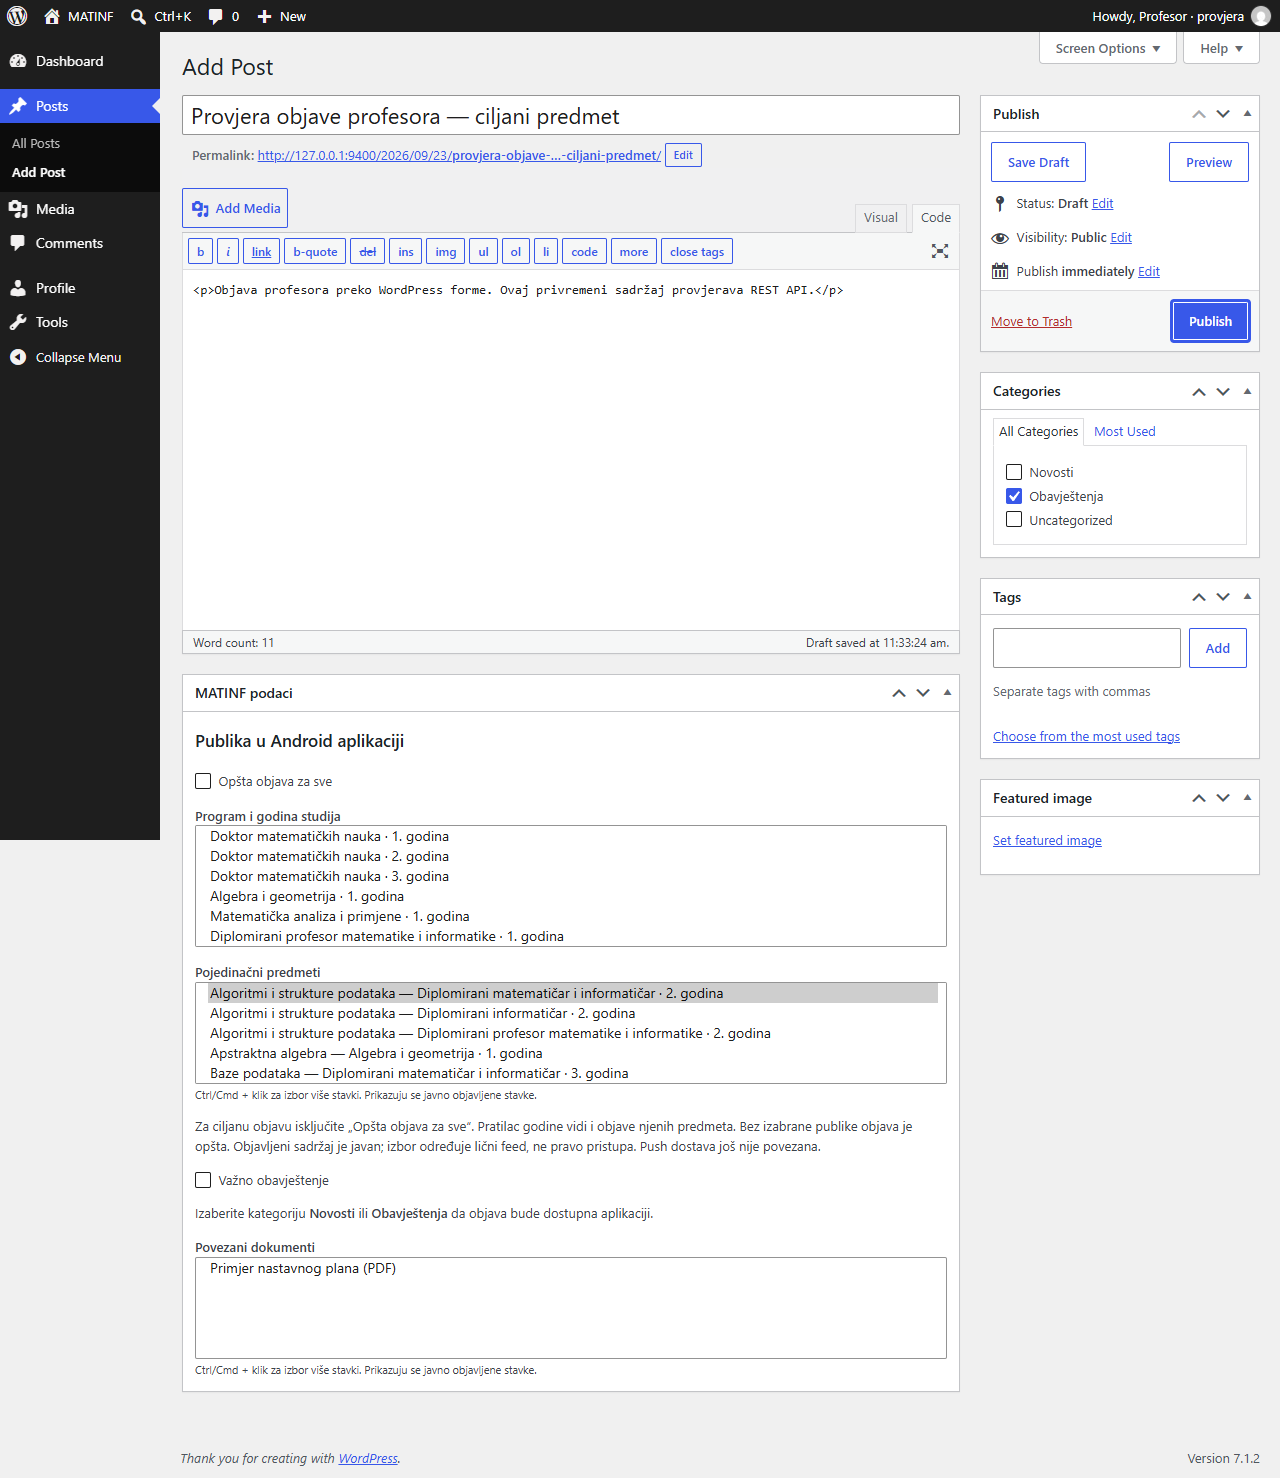
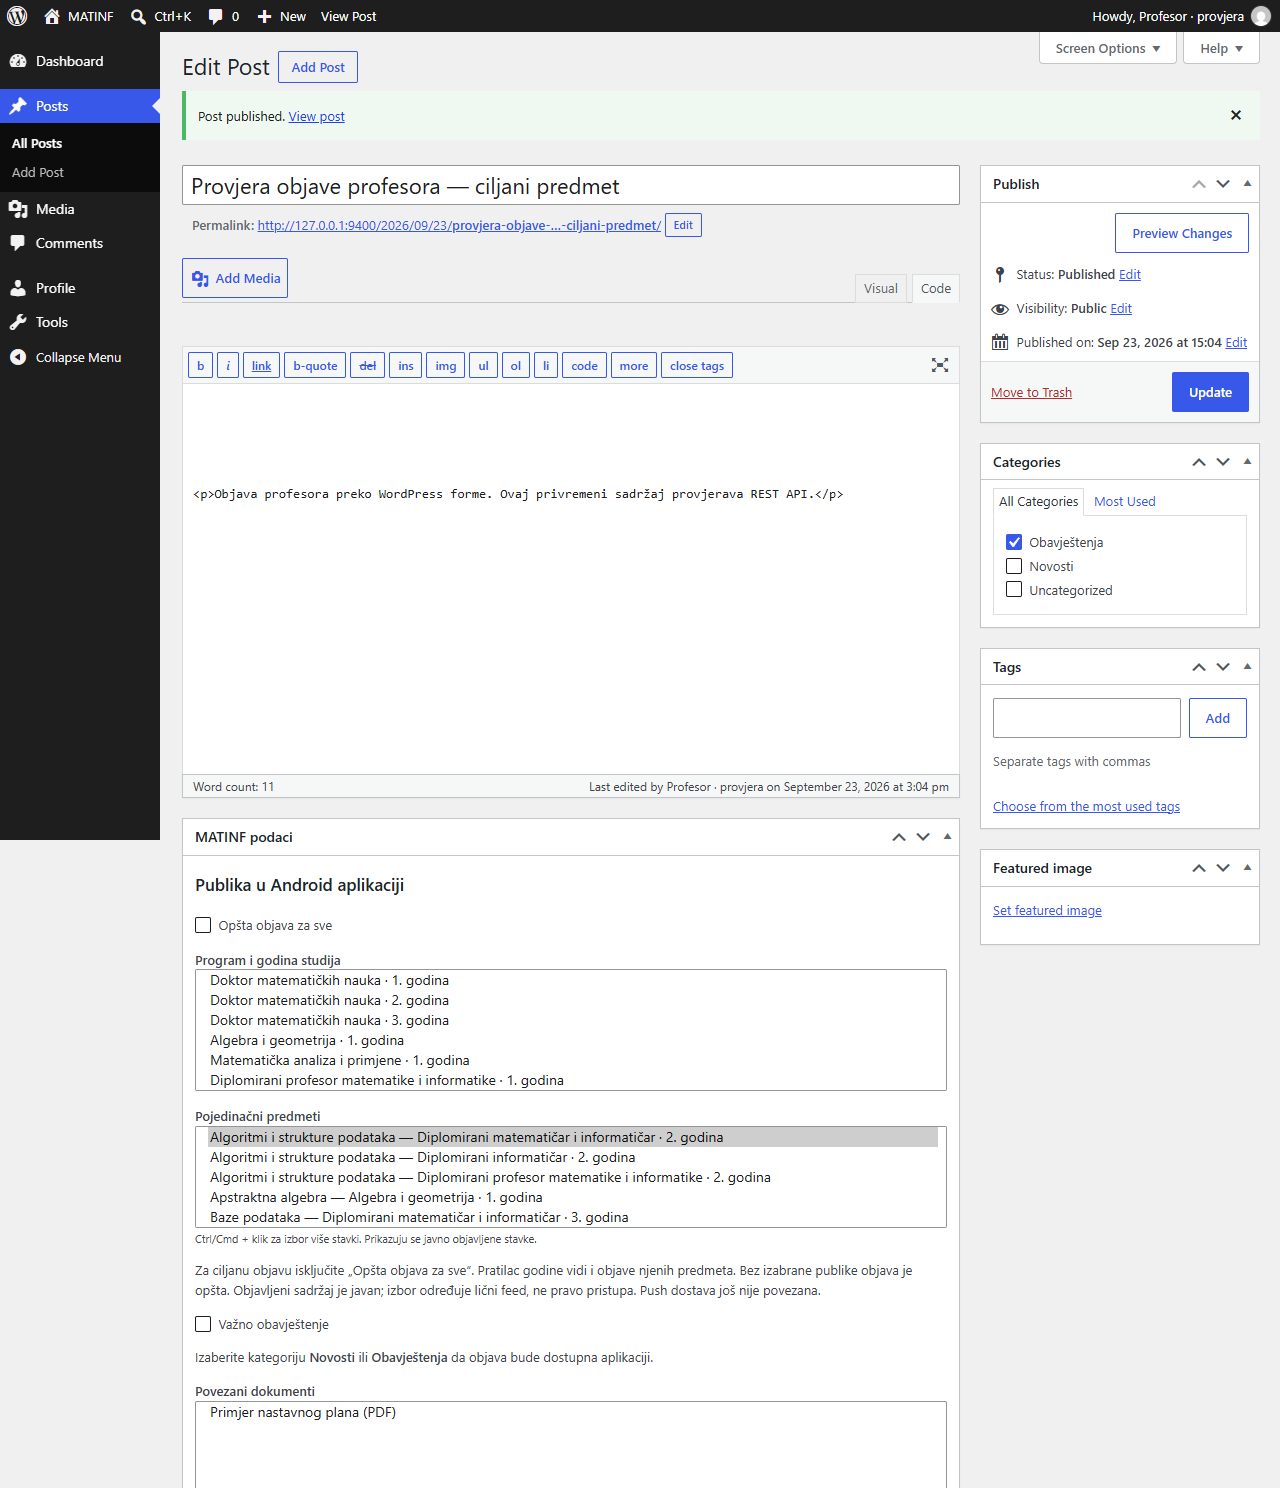
Add automated Android UI testing script for reader app functionality

diff --git a/src/components/matinf-app.tsx b/src/components/matinf-app.tsx
@@ -87,6 +87,19 @@ export function MatinfApp() {
     }).catch(() => undefined).finally(() => setReady(true));
     void refreshCatalog();
   }, [refreshCatalog]);
+  useEffect(() => {
+    if (!preferences || catalogLoading || catalogError || !catalog.programs.length) return;
+    const programYears = preferences.programYears.filter(value => {
+      const [id, year] = value.split(':').map(Number);
+      return catalog.programs.some(item => item.id === id && year >= 1 && year <= (item.meta.durationYears || 0));
+    });
+    const courseIds = preferences.courseIds.filter(id => catalog.courses.some(item => String(item.id) === id));
+    if (programYears.length !== preferences.programYears.length || courseIds.length !== preferences.courseIds.length) {
+      const next = { ...preferences, programYears, courseIds };
+      setPreferences(next);
+      void AsyncStorage.setItem('@matinf/onboarding/v1', JSON.stringify(next)).catch(() => undefined);
+    }
+  }, [catalog, catalogLoading, catalogError, preferences]);
   const goBack = useCallback(() => { setStack(value => value.slice(0, -1)); }, []);
   useEffect(() => {
     if (setup || !preferences) return;

diff --git a/wordpress/plugins/matinf-core/includes/admin.php b/wordpress/plugins/matinf-core/includes/admin.php
@@ -75,6 +75,10 @@ add_action('save_post', function ($id, $post) {
         return;
     }
     matinf_store_fields($id, $fields);
+    if ($post->post_type === 'post' && !has_category(['novosti', 'obavjestenja'], $id)) {
+        $category = get_term_by('slug', 'obavjestenja', 'category');
+        if ($category) wp_set_post_categories($id, [$category->term_id], true);
+    }
 }, 10, 2);
 
 add_action('admin_notices', function () {

diff --git a/docs/setup-status.md b/docs/setup-status.md
@@ -1,6 +1,12 @@
 # Setup decisions and implementation status
 
-Updated: 23 September 2026.
+Updated: 24 September 2026.
+
+## Public hosting trial
+
+Hosted check after corrected ZIP installation (24 September): MATINF theme and plugin are active, `/wp-json/matinf/v1/health` returns 200, and the catalog contains 6 programs, 34 courses, 6 staff, 1 document, and 8 feed posts. Course relationships and year-targeted/general-only feed filtering passed direct HTTP checks. Both HTTP and HTTPS PDF downloads return 200. A configuration issue remains: the core REST index reports `home=https://sinisa.alwaysdata.net` but `url=http://sinisa.alwaysdata.net`; the stored demo PDF URL also uses HTTP. Change WordPress Address to HTTPS and update the document file URL before connecting the public Android build. Hosted outbound push connectivity and Android access are still pending.
+
+The user selected alwaysdata Free on 24 September and provided `https://sinisa.alwaysdata.net/`. Direct Node HTTP checks confirmed the WordPress homepage and `/?rest_route=/` return 200 over HTTPS without a browser challenge. The standard API namespaces are present; `matinf/v1` is absent. `/wp-json/` returns a server 404, while `/index.php/wp-json/matinf/v1/health` reaches WordPress but returns `rest_no_route`. Plugin/theme installation and permalink configuration are the next steps. Deployment instructions are in `docs/hosting-setup.md`; the plugin/theme upload archives are prepared. Android connectivity and outbound HTTPS remain unverified. Local data and accounts remain intact; the app still uses the local backend until hosted acceptance passes.
 
 ## Expanded app and Professor workflow
 
@@ -8,7 +14,11 @@ The user expanded the scope to a full WordPress-backed reader and Professor/Admi
 
 Professor accounts use WordPress authentication, publish their own posts, and cannot manage other authors, academic records, accounts, or site settings. This implements direct publishing as the working default; an approval workflow was asked about but not confirmed. Administrators create accounts in Users → Add New and assign Profesor. Post targeting uses the MATINF metadata form; choose year/subject and uncheck the general-audience checkbox for targeted content.
 
-The demo catalog has been extended additively to 34 courses across study years, six fictional staff, five announcements, and three news posts. Existing edits remain intact. Eleven WordPress integration tests, TypeScript validation, and three onboarding model checks passed for the expanded code. Browser publishing and device acceptance are being checked separately.
+The demo catalog has been extended additively to 34 courses across study years, six fictional staff, five announcements, and three news posts. Existing edits remain intact. Eleven WordPress integration tests, TypeScript validation, and three onboarding model checks passed for the expanded code. The browser publishing check also passed: an Administrator creates a Professor, the Professor signs in and publishes through the WordPress form, and matching year feeds include the post while general-only feeds exclude it. The temporary user and post are removed afterward.
+
+The expanded native APK built successfully (16m 39s) and was installed on `emulator-5554`. Five-tab navigation, staff/course/article/program details, and offline staff/course caching across native restarts passed. Screenshots in `artifacts/reader/` were visually reviewed against the supplied design direction. The current emulator APK is 46,660,384 bytes. Removing an ADB reverse rule alone can leave existing HTTP sockets working; the offline check now restarts the app after disconnecting. The local untouched WordPress Sample Page was retained as a draft so it no longer appears in the public information menu.
+
+Native targeting also passed: selecting the second year of Diplomirani matematičar i informatičar shows its targeted announcement in **Za mene**, opens its article, and preserves the selection after restarting the app. The emulator is left with this demo selection. Reproduce with `node scripts/check-android-reader.mjs --native --targeting`; `--offline` checks previously cached staff and courses separately. All ADB forwarding is restored after the checks. Public hosting and OS push delivery remain pending.
 
 ## Confirmed with the user
 
@@ -30,10 +40,10 @@ The demo catalog has been extended additively to 34 courses across study years, 
 
 ## Implemented locally
 
-- Three-step onboarding UI with demo choices, local preferences, skip/back behavior, and guarded notification opt-in.
+- Three-step onboarding UI with WordPress programs and courses, local preferences, skip/back behavior, and guarded notification opt-in.
 - WordPress Core plugin: programs, courses, staff, documents, news/announcement categories, metadata forms, validated relationships, sanitized public content API, and additive sample seeding.
 - Responsive WordPress theme: home prioritizing announcements, all collection archives and details, study years/course links, staff links, documents, Contact, About, responsive menu, and demo labeling.
-- Six sample programs, twelve courses, three fictional staff, three announcements, two news posts, two information pages, and a generated PDF.
+- Six sample programs, 34 courses, six fictional staff, five announcements, three news posts, two information pages, and a generated PDF.
 - API contract, public-host checklist, packaging and offline local-backup scripts.
 
 ## Verification
@@ -53,7 +63,7 @@ The first build was stopped after Gradle nearly exhausted its 512 MiB metadata a
 1. Obtain and verify a free public host, including direct API access and outbound HTTPS. HelioHost Johnny is the current candidate; no account or deployment has been fabricated.
 2. Configure user-owned Expo and Firebase projects, then prove a remote notification and detail routing in a native build. The local emulator APK and OS permission checks are complete.
 3. Add private installation registration and bounded notification dispatch/receipts, with focused authorization and audience-matching tests.
-4. Connect mobile reading screens and onboarding to WordPress IDs, implement persistent caching and unavailable/offline states, and replace demo catalog choices.
+4. Exercise hosted refresh, images, documents, and deleted-content handling against the eventual public backend. Local native navigation and persistent offline reading are verified.
 5. Complete notification settings/synchronization, hosted deployment, signed ARM APK, Redmi testing, and a recoverable hosted backup.
 
 No public hosting, notification delivery, MySQL compatibility, final signing, or Redmi run is claimed complete by the local website milestone.

diff --git a/docs/hosting-setup.md b/docs/hosting-setup.md
@@ -2,21 +2,32 @@
 
 Budget remains EUR 0, with no card, billing activation, donation, or paid fallback. The user chose a free public host and has no existing hosting, Expo account, or Firebase project.
 
-## Candidate: HelioHost Johnny
+## Selected trial: alwaysdata Free
 
-Use the **Johnny** free plan at <https://heliohost.org/signup/>. The provider documents limited signup windows at 12:00 and 00:00 UTC. During Budapest daylight-saving time those are 14:00 and 02:00; check the UTC time when signing up. Other plans on the page are not authorized alternatives.
+On 24 September 2026 the user chose to try **alwaysdata Free**. Start at <https://www.alwaysdata.com/en/wordpress-hosting/> and select the Free offer. Create the account with an email you control, verify that email, and choose a unique account name, such as `matinf-demo` if available. The assigned website address will use `alwaysdata.net`; use the actual address shown in the panel, not an assumed available name.
 
-Create the account yourself with an email you control and keep its password in your password manager. Once active, provide only the site's public URL. If registration is full, report that; do not enter payment details or select another plan merely to bypass the queue. The provider also requires a login at least once a month and enforces resource limits. This is a candidate, not a verified deployment yet.
+The advertised free plan has 1 GB total storage (including files, mail and databases), 256 MB RAM, and three days of rolling backups. It is for noncommercial use and uses the supplied subdomain. Choose the actual EUR 0 Free plan, not a time-limited trial of a paid plan. The provider advertises registration without a credit card. If the flow makes a card mandatory, stop at that step and report the non-sensitive message rather than activating billing.
+
+Keep passwords private. Share only the public site URL when ready. The existing local WordPress users, including `matinf-prof`, do not automatically exist on the new site. Create hosted users separately with new passwords or migrate them later as part of a planned content migration. Do not import the local Playground SQLite database into MySQL.
+
+Install WordPress using alwaysdata's WordPress Marketplace installer. Keep the installation at the root of the assigned HTTPS address if possible. Use a unique WordPress administrator login; the alwaysdata account and WordPress account are separate logins. This is a hosting trial, not a verified deployment yet.
+
+No-card accounts have stricter HTTP filtering. General network documentation allows outgoing connections, but direct Android REST access and outbound Expo HTTPS still need real tests on this account. No payment/card verification workaround is authorized.
 
 After account activation:
 
 1. Enable an HTTPS certificate for the supplied subdomain in the hosting panel.
 2. Install WordPress with PHP 8.3 or a supported newer version and MariaDB/MySQL. Use a unique administrator password; keep login and database credentials private.
-3. Record the actual WordPress/PHP/database versions and upload limits. Prefer the tested WordPress 7.1.2 or a security-patched compatible release.
+3. Record the actual WordPress/PHP/database versions and upload limits. Use the current supported WordPress release available from the installer and verify compatibility with our plugin; the local test runtime used 7.1.2.
 4. Upload `wordpress/dist/matinf-core.zip`, activate it, then upload/activate `matinf-theme.zip`.
 5. Set the site title to MATINF. Set permalinks to Post name. Keep the unofficial-demo label.
 6. Run Tools → MATINF demo once. It creates sample content in the hosted database with that site's own IDs and document URLs.
 7. Test the endpoints below from a non-browser client and the Android device. A page loading in a browser is not sufficient.
+8. Create a Profesor account under Users → Add New. Publish a targeted test post, then check matching and unrelated personal feeds. Keep the default Sample Page as a draft.
+
+The upload ZIPs can be rebuilt from the project root with `./wordpress/scripts/package.ps1`. They contain the plugin and theme only, not the local content database, uploaded media, or user accounts. Preserve the existing local site until migration is verified.
+
+Packaging correction, 24 September: Windows PowerShell `Compress-Archive` produced backslash entry paths, followed by hosted errors "Plugin file does not exist" and missing `style.css`. The packaging script now writes explicit forward-slash ZIP paths and verifies the file count and required entry files before replacing the archives. Re-upload the rebuilt ZIPs; if WordPress detects an existing MATINF installation, use its replacement option. Correct entry files are `matinf-core/matinf-core.php` and `matinf/style.css`. Hosted activation still needs to be confirmed after re-upload.
 
 ## Hosted acceptance checks
 
@@ -34,6 +45,8 @@ After these pass, configure Expo/Firebase for remote pushes in a native build an
 
 - InfinityFree's browser security system blocks API clients/mobile applications: [provider explanation](https://forum.infinityfree.com/t/can-you-use-apis/117968).
 - AwardSpace documents outbound connections as a paid-account feature, which conflicts with Expo push dispatch: [provider documentation](https://www.awardspace.com/kb/connect-remote-scripts-rss-feeds-curl/).
-- Alwaysdata advertises a free no-card option, but its registration/WordPress installation page can request card verification. It was not treated as a proven no-card path.
+- Alwaysdata's no-card account restrictions require an actual API test. Its current 1 GB Free plan is now the user's chosen trial; no account activation or compatibility result is assumed.
 
-HelioHost sources: [Johnny features and signup windows](https://wiki.helionet.org/Johnny), [signup plans](https://heliohost.org/signup/), [WordPress resource guidance](https://wiki.helionet.org/WordPress). Reviewed 22–23 September 2026. Signup availability and a successful real account test remain unresolved.
+Alwaysdata sources: [WordPress/free signup](https://www.alwaysdata.com/en/wordpress-hosting/), [plan limits](https://help.alwaysdata.com/en/docs/admin-billing/billing/public-cloud-prices/), [restricted accounts](https://help.alwaysdata.com/en/docs/admin-billing/profile/restricted-mode/), [network policy](https://help.alwaysdata.com/en/docs/technical-specifications/network/). Reviewed 23–24 September 2026.
+
+HelioHost Johnny remains an alternative if the alwaysdata trial fails: [signup plans](https://heliohost.org/signup/). It has limited signup availability; paid alternatives remain outside the agreed budget.

diff --git a/wordpress/README.md b/wordpress/README.md
@@ -34,7 +34,7 @@ The admin sidebar contains Studijski programi, Predmeti, Nastavno osoblje, and D
 
 Invalid academic metadata is rejected. An attempted invalid publication is kept as a draft with an admin notice; existing valid metadata remains intact. Drafts, private/password-protected posts, and unpublished relationships are omitted from the mobile API.
 
-Tools → MATINF demo can add the sample content to an empty installation. Seeding is additive: existing slugs and administrator edits are preserved. The demo contains all six programs, twelve representative courses, three fictional staff profiles, five sample posts, two information pages, and a generated PDF stored in WordPress Media. It is not an official curriculum.
+Tools → MATINF demo can add the sample content to an empty installation. Seeding is additive: existing slugs and administrator edits are preserved. The demo contains all six programs, 34 representative courses, six fictional staff profiles, eight sample posts, two information pages, and a generated PDF stored in WordPress Media. It is not an official curriculum.
 
 ## Public API
 
@@ -76,11 +76,14 @@ To restore locally, stop WordPress; preserve the current `.runtime/site` under a
 
 ## What is still pending
 
-Public hosting, HTTPS and outbound Expo-request checks; Expo/Firebase project configuration; private installation registration; notification queue/receipts; mobile content/cache integration; and the final Redmi build. See [setup decisions](../docs/setup-status.md) and [hosting steps](../docs/hosting-setup.md). The local site is a working development milestone, not a claim that those external-service gates are complete.
-# Professors and targeted publishing
+Public hosting, HTTPS and outbound Expo-request checks; Expo/Firebase project configuration; private installation registration; notification queue/receipts; and the final Redmi build. See [setup decisions](../docs/setup-status.md) and [hosting steps](../docs/hosting-setup.md). Mobile reading and caching are implemented against the local site; external-service gates remain open.
+
+## Professors and targeted publishing
 
 Open `/prijava/` to sign in as an Administrator or Professor. Administrators add accounts through **Users → Add New**, assigning the **Profesor** role. The login form does not allow self-selected privileges. Professors can publish and edit their own posts and upload media; academic catalogs, other authors' posts, settings, and users remain under Administrator control.
 
 When writing a post, choose **Novosti** or **Obavještenja**. In **MATINF podaci**, select the program/year and/or subjects. Uncheck **Opšta objava za sve** for a targeted post. Leaving all targets empty makes the post general. Publishing makes it available to the Android REST reader on refresh; matching study-year followers also see their subjects' posts. These are public posts with a personalized feed, not private classroom content. OS push delivery is not yet connected.
+
+Posts saved through the MATINF form without either category are added to **Obavještenja** automatically. On a fresh WordPress installation, keep the unneeded default Sample Page as a draft before demonstrating the app; the reader intentionally includes published information pages.
 
 `node wordpress/scripts/check-publishing.mjs` checks an Administrator-created temporary Professor, actual login and form publication, and the matching REST feed. It cleans up its temporary user/post afterward and seeds the additive demo catalog.

diff --git a/README.md b/README.md
@@ -20,7 +20,9 @@ npm ci
 npm run android
 ```
 
-This opens the root Expo app on the connected Android emulator/device. Onboarding works locally; the remaining reader screens and live notification subscription integration are pending. `matinf/` is an archived starter, not the active app.
+This opens the root Expo app on the connected Android emulator/device. The app includes onboarding, five main tabs, WordPress content/details, year/subject feed matching, and persistent saved content. Remote push delivery remains pending. `matinf/` is an archived starter, not the active app.
+
+Start WordPress first and run `adb reverse tcp:9400 tcp:9400` so Android can reach it. The default backend is `http://127.0.0.1:9400`; set `EXPO_PUBLIC_WORDPRESS_URL` to the eventual public HTTPS site and rebuild for hosted use. The local preview explicitly allows loopback HTTP; public builds require HTTPS. See `.env.example`.
 
 For the standalone emulator feasibility build:
 
@@ -37,6 +39,10 @@ npx tsc --noEmit
 node --test scripts/onboarding-model.test.mjs
 npm run test:wordpress
 node wordpress/scripts/check-site.mjs
+node wordpress/scripts/check-publishing.mjs
+node scripts/check-android-reader.mjs
+node scripts/check-android-reader.mjs --native
+node scripts/check-android-reader.mjs --native --targeting
 ```
 
 The browser check requires Google Chrome. The WordPress tests use a separate persistent test database, not the site's working content.

diff --git a/PLAN.md b/PLAN.md
@@ -1,6 +1,6 @@
 # MATINF-inspired WordPress and Android information system
 
-Status: implementation underway. The local onboarding and first WordPress content/API/theme milestone are implemented; public hosting, native push, mobile reader integration, and final-device acceptance remain open. See `docs/setup-status.md` and `wordpress/README.md` for evidence and commands.
+Status: implementation underway. Local onboarding, the WordPress content/API/theme, Professor publishing, and the five-tab Android reader with personal feeds and caching are implemented. Public hosting, native push, and final-device acceptance remain open. See `docs/setup-status.md` and `wordpress/README.md` for evidence and commands.
 
 Prepared: 18 September 2026. The user has approximately 20 days available; the exact submission date and daily working hours are not confirmed.
 
